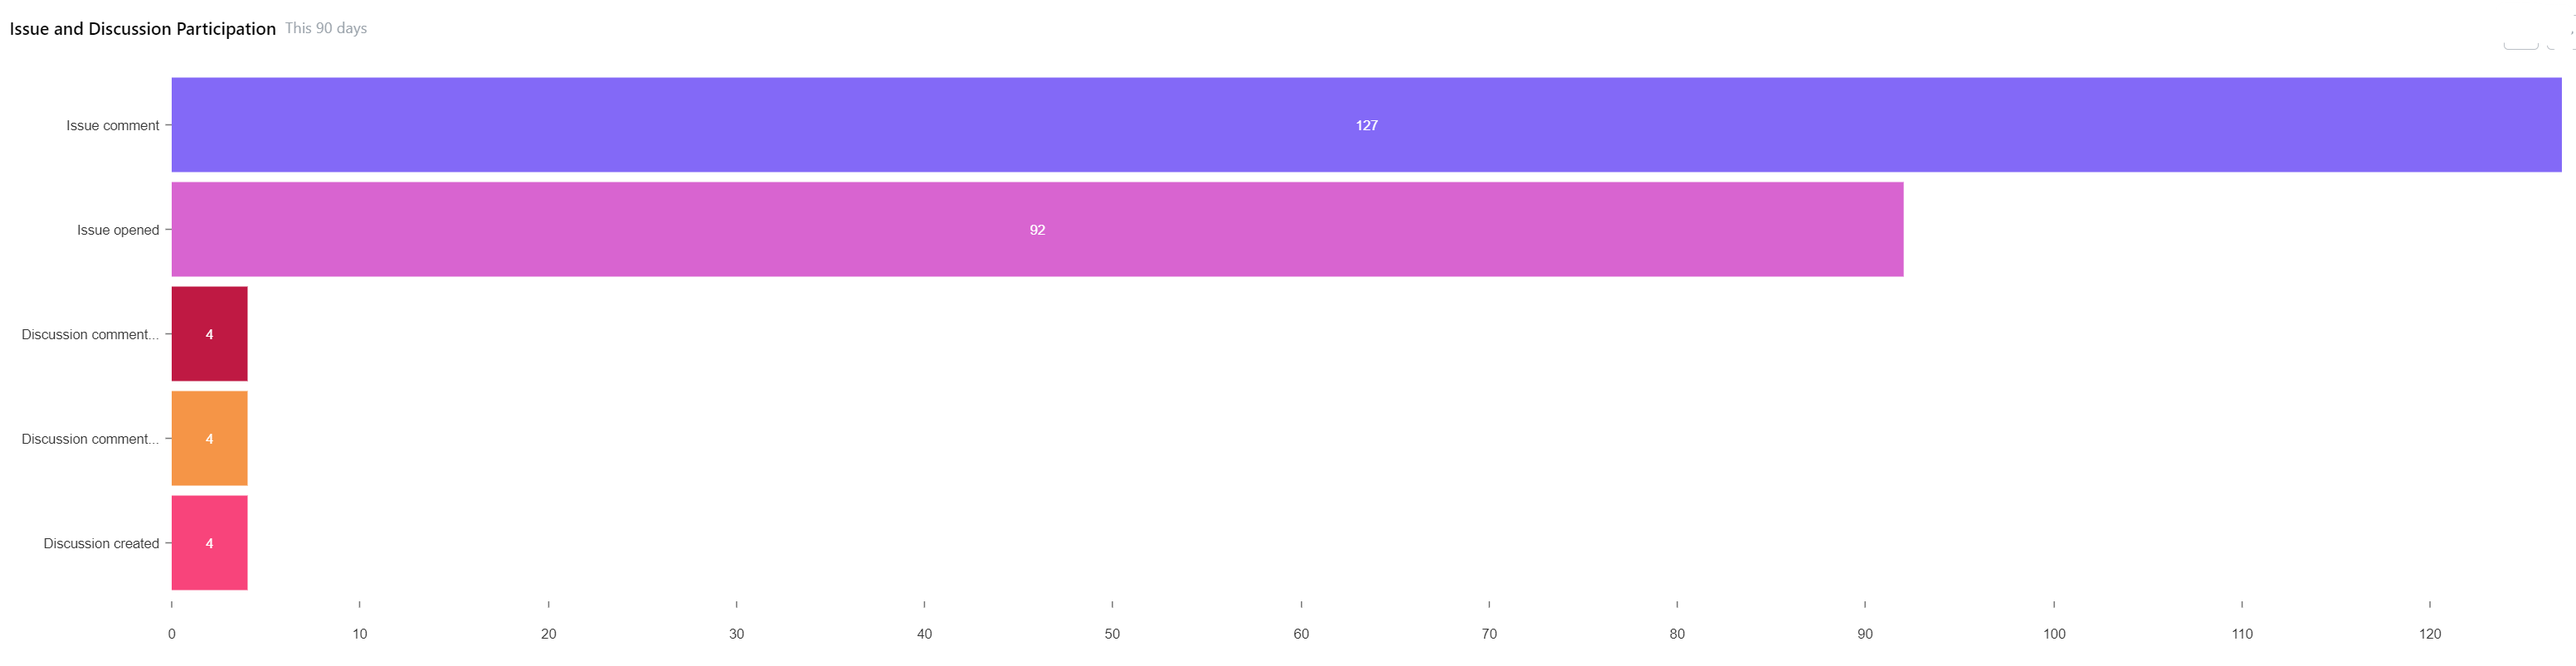
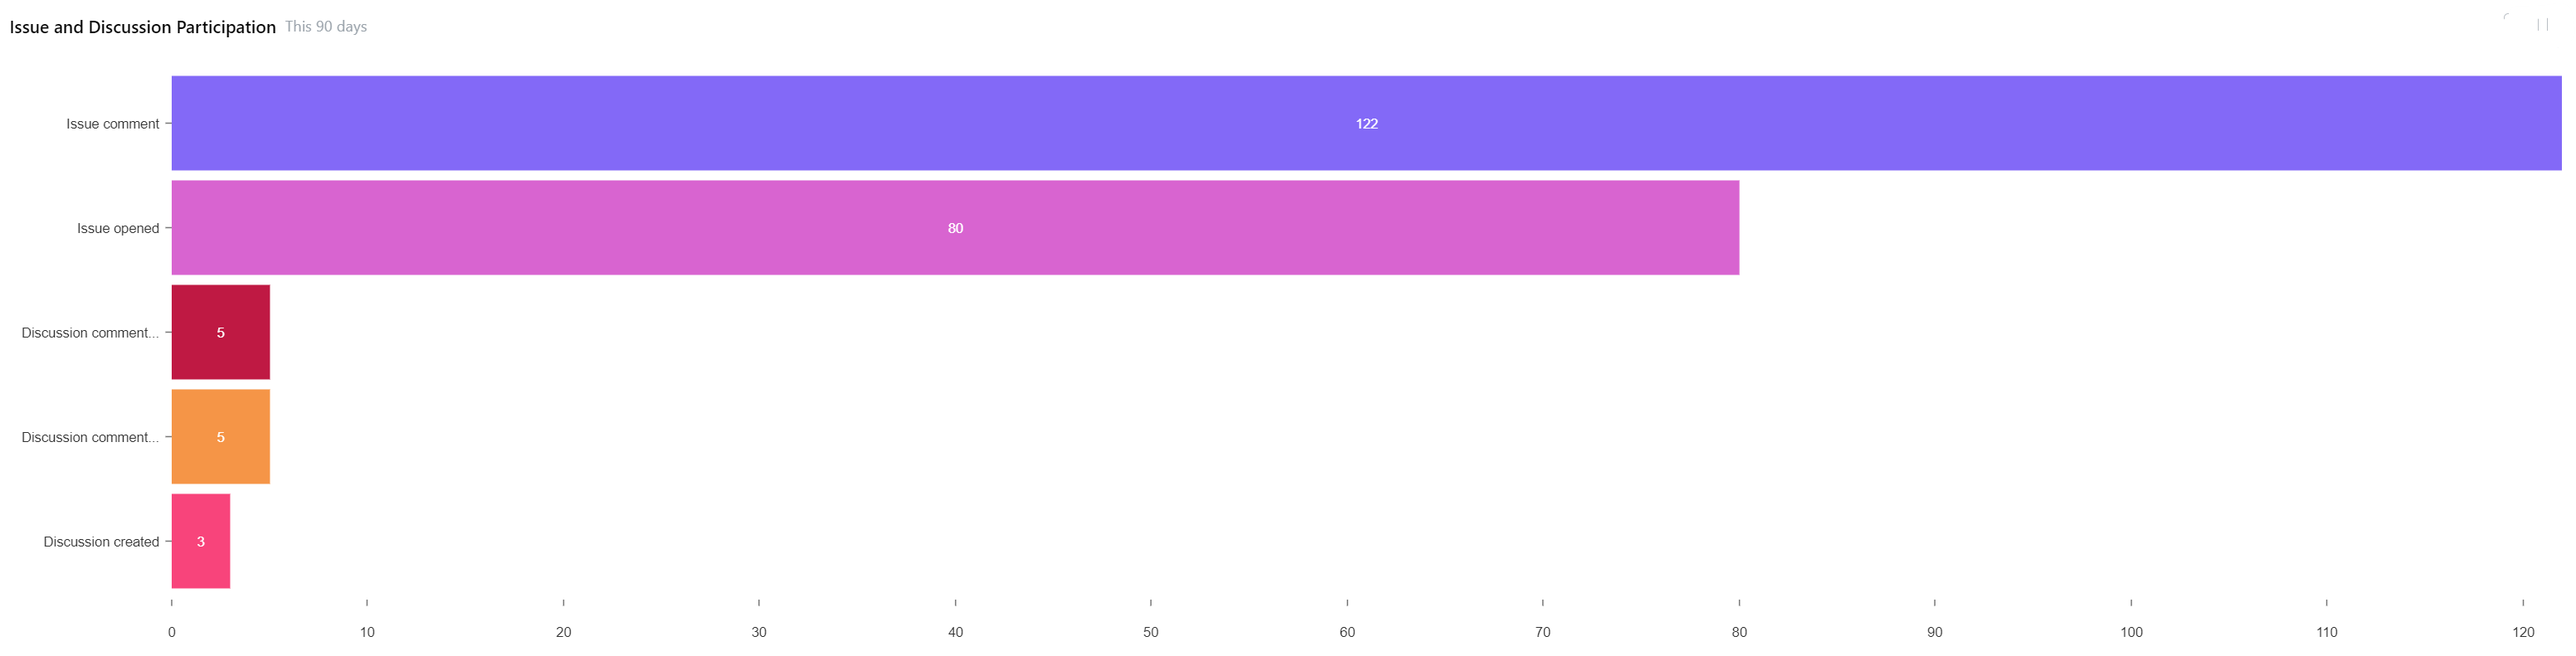
Update with May extract

diff --git a/README.md b/README.md
@@ -1,7 +1,7 @@
 # open-source-metrics
 Various metrics on some of our open source project - _Work-in-Progress_
 
-📅 Extracted on April 12th 2023
+📅 Extracted on May 12th 2023
 
 # Swagger Projects Combined
 
